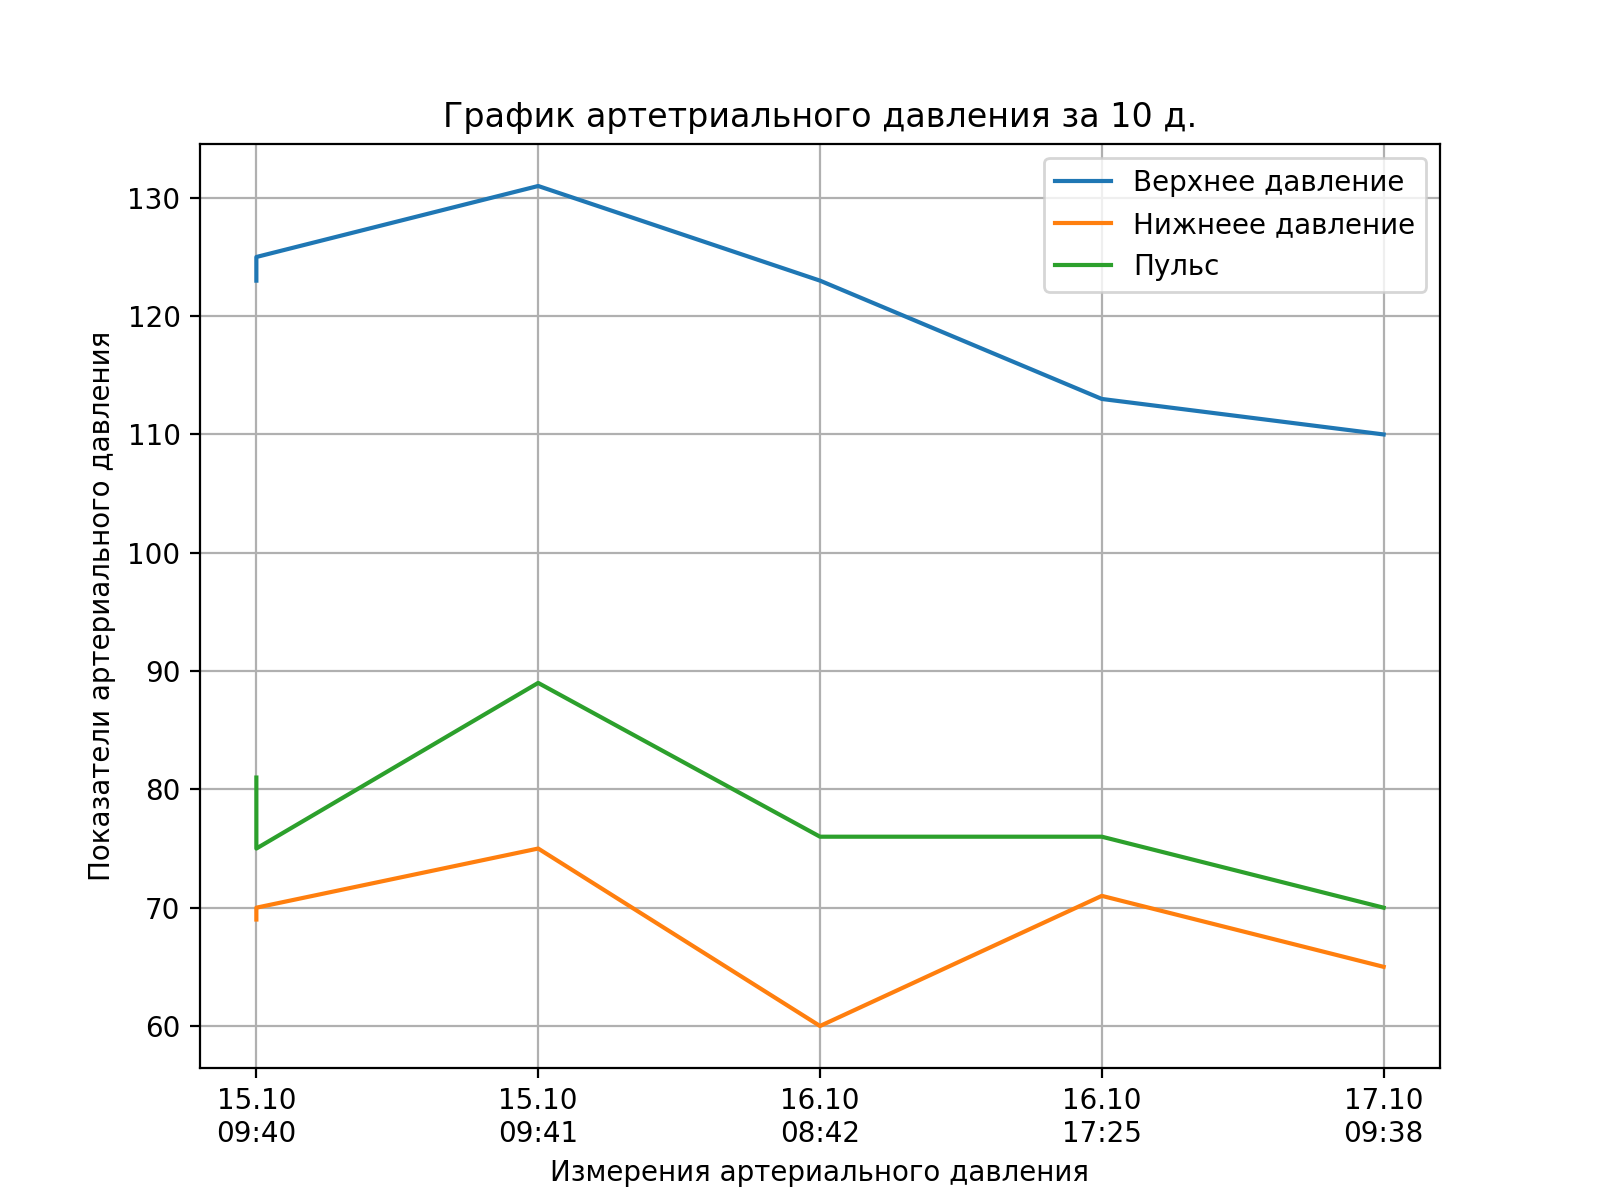
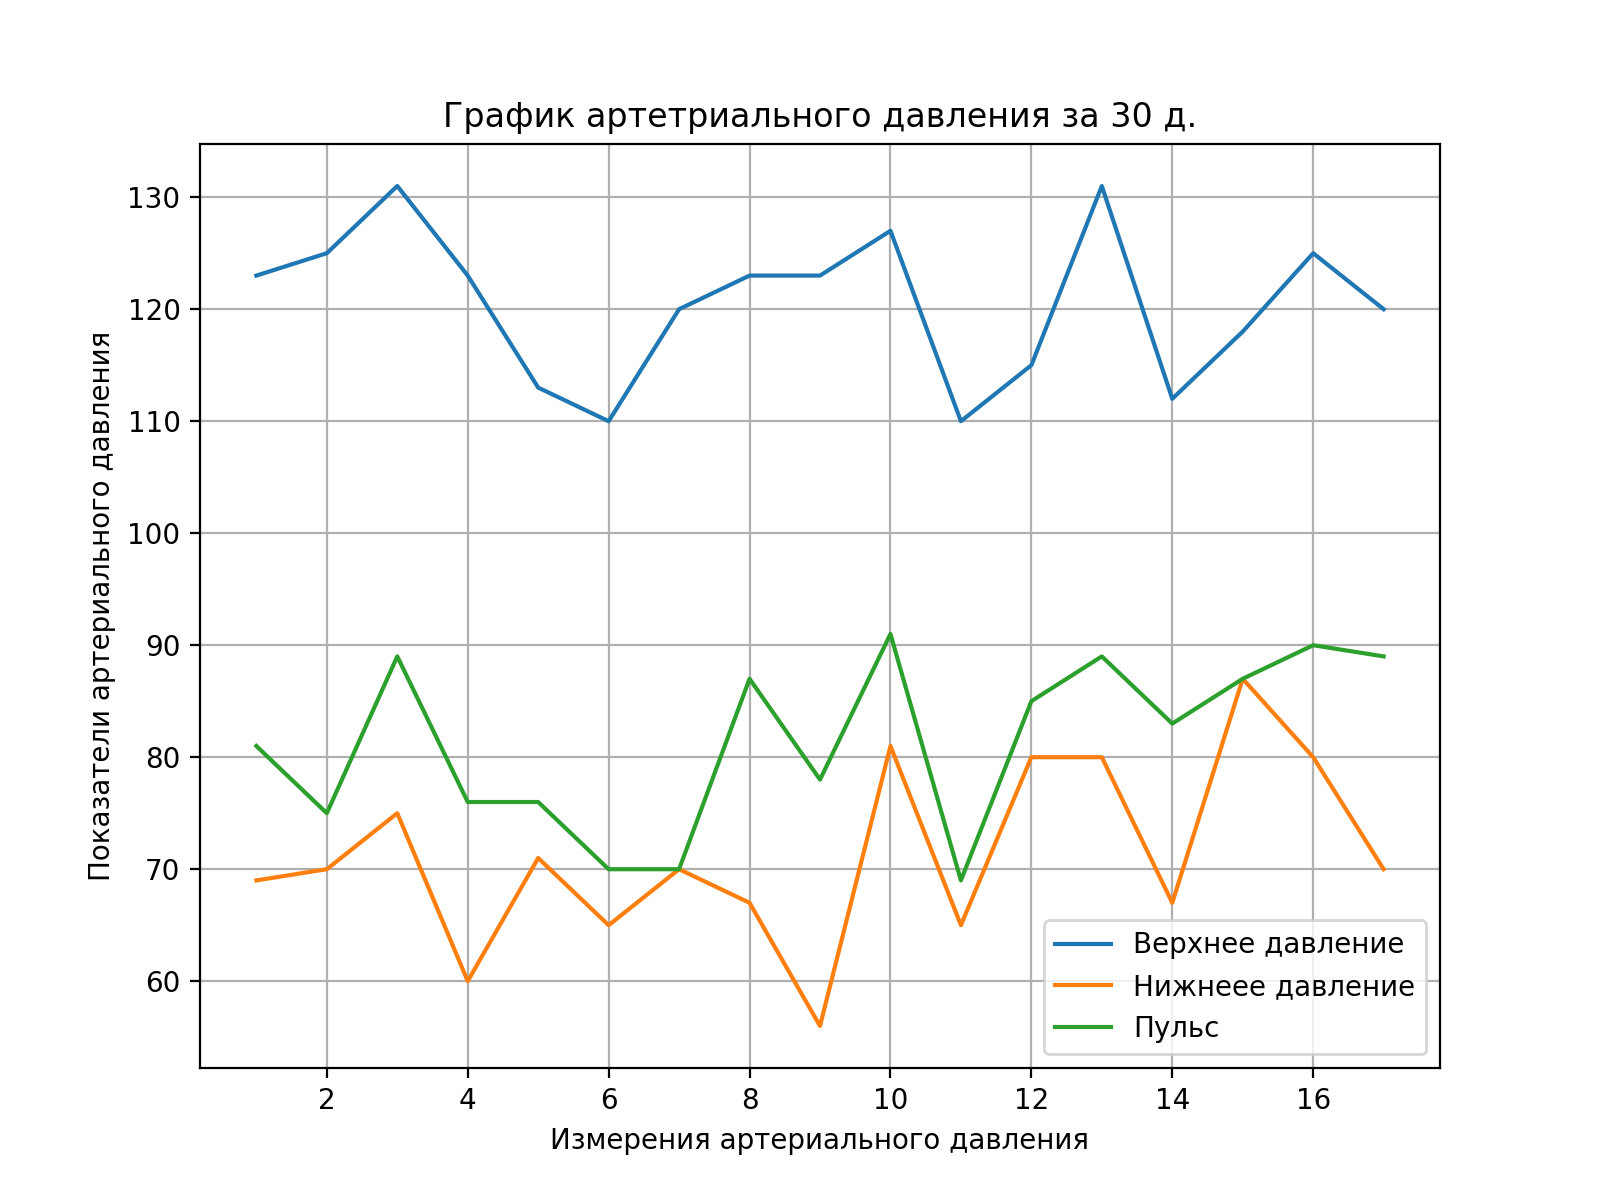
grpaph fixes

diff --git a/handlers/user_handlers.py b/handlers/user_handlers.py
@@ -14,6 +14,7 @@ from aiogram.fsm.storage.memory import MemoryStorage
 
 from keyboards.main_menu import get_main_menu, get_location_menu
 from keyboards.graphic_menu import get_graphic_menu, PeriodCallback
+from keyboards.callback_menu import get_yes_no_menu, YesNoCallback
 from config_data.config import Config, load_config
 from database.orm import add_user, add_blood, get_user_id, get_bloods, add_location, get_user_data
 from utils.tools import (create_blood_list, create_graph, get_weather_data, get_pretty_weather, get_timezone, get_kp_data,
@@ -26,6 +27,7 @@ storage = MemoryStorage()
 
 class FSMBloodState(StatesGroup):
     blood_string = State()
+    blood_string_confirmed = State()
 
 class FSMGraphState(StatesGroup):
     period = State()
@@ -83,11 +85,34 @@ async def process_blood_command(message: Message, state: FSMContext):
 
 
 @router.message(F.text,  StateFilter(FSMBloodState.blood_string))
-async def process_text_command(message: Message, state: FSMContext):
-    await state.update_data(blood_string=message.text)
-    tg_id = message.from_user.id
-    blood_text = message.text # 120/70/72
+async def process_blood_confirm_command(message: Message, state: FSMContext):
+    blood_text = message.text
     if check_pressure_and_pulse(blood_text):
+        values = blood_text.split('/')
+        systolic_bp, diastolic_bp, pulse_rate = map(int, values)
+        await message.answer(text=f'Вы ввели:\nДавление {systolic_bp} на {diastolic_bp}, пульс {pulse_rate}\nДобавить?',
+                          reply_markup=get_yes_no_menu()
+        )
+        await state.update_data(blood_string=message.text)
+        await state.set_state(FSMBloodState.blood_string_confirmed)
+    else:
+        await message.answer(
+                text='Неверный формат строки  или неверные показатели АД и пульса. Введите в формате 120/70/75', 
+                reply_markup=get_main_menu()
+            )
+
+
+@router.callback_query(YesNoCallback.filter(F.name == 'answer'), StateFilter(FSMBloodState.blood_string_confirmed))
+async def process_add_confirmed_blood(callback: CallbackQuery, callback_data: PeriodCallback, state: FSMContext):
+    tg_id = callback.from_user.id
+    blood_data = await state.get_data()
+    blood_text = blood_data['blood_string']
+
+    print(callback_data)
+    print(callback_data.value)
+    print(blood_text)
+    
+    if callback_data.value == True:
         try:
             user_id, lat, lon, timezone  = get_user_data(tg_id)
             weather_data = get_weather_data(lat, lon)
@@ -96,21 +121,23 @@ async def process_text_command(message: Message, state: FSMContext):
             low = blood_text.split('/')[1]
             pulse = blood_text.split('/')[-1]
             add_blood(hi, low, pulse, weather_data, kp_data, user_id)
-            await message.answer(
+            await callback.message.answer(
                 text='Показания добавлены', 
                 reply_markup=get_main_menu()
             )
             await state.clear()
         except:
-            await message.answer(
+            await callback.message.answer(
                 text='Ошибка при добавлении данных, обратитесь к разработчику', 
                 reply_markup=get_main_menu()
             )
     else:
-        await message.answer(
-                text='Неверный формат строки  или неверные показатели АД и пульса. Введите в формате 120/70/75', 
-                reply_markup=get_main_menu()
-            )
+        await callback.message.answer(
+            text=f'Введите показатели АД и пульса в формате 120/70/75', 
+            reply_markup=get_main_menu()
+        )
+        await state.set_state(FSMBloodState.blood_string)
+    
 
 
 @router.message(F.text == '📈 График', StateFilter(default_state))
@@ -127,20 +154,27 @@ async def process_button_period_click(callback: CallbackQuery, callback_data: Pe
     tg_id = callback.from_user.id
     user_id = get_user_id(tg_id)
     bloods_data = get_bloods(user_id, days)
-    blood_grpaph_filename, pressure_graph_filename, kp_graph_filename = create_graph(bloods_data, days)
+    blood_grpaph_filename, pressure_graph_filename, kp_graph_filename, table_filename = create_graph(bloods_data, days)
     blood_file = FSInputFile(path=blood_grpaph_filename)
     pressure_file = FSInputFile(path=pressure_graph_filename)
     kp_file = FSInputFile(path=kp_graph_filename)
     try:
         await callback.message.answer_photo(
             photo=blood_file,
-            reply_markup=get_main_menu())
-        await callback.message.answer_photo(
-            photo=pressure_file,
-            reply_markup=get_main_menu())
-        await callback.message.answer_photo(
-            photo=kp_file,
-            reply_markup=get_main_menu())
+            reply_markup=get_main_menu()
+        )
+        if table_filename:
+            table_file = FSInputFile(path=table_filename)
+            await callback.message.answer_photo(
+                photo=table_file,
+                reply_markup=get_main_menu()
+            )
+        # await callback.message.answer_photo(
+        #     photo=pressure_file,
+        #     reply_markup=get_main_menu())
+        # await callback.message.answer_photo(
+        #     photo=kp_file,
+        #     reply_markup=get_main_menu())
     except Exception as e:
         print(f'Error with sending photo: {e}')
 

diff --git a/utils/tools.py b/utils/tools.py
@@ -4,6 +4,7 @@ from pprint import pprint
 import os
 
 import matplotlib.pyplot as plt
+from matplotlib.table import Table
 
 from config_data.config import Config, load_config
 
@@ -12,6 +13,7 @@ ow_token = config.open_weather.weather_token
 utc_token = config.open_weather.utc_token
 
 PRESSURE_FACTOR = 0.007501
+MAX_DATES_COUNT = 14
 code_timezone_file = 'code_timezone.json'
 
 
@@ -101,21 +103,67 @@ def plot_blood_graph(hi: list, low: list, pulse: list, dates: list, days: int):
         return graph_blood_filename
 
 
+def save_dictionary_as_png(data_dict):
+    filename='./files/table.png'
+    fig, ax = plt.subplots()
+    ax.axis('off')
+
+    headers = ["Номер", "Дата"]
+    table_data = []
+
+    for number, date in sorted(data_dict.items()):
+        table_data.append([number, date])
+
+    table_data.insert(0, headers)
+
+    tb = Table(ax, bbox=[0, 0, 1, 1])
+    nrows, ncols = len(table_data), len(table_data[0])
+    width, height = 1 / ncols, 1 / nrows
+
+    colors = [['#F0FFFF'] * ncols] + [['#DCDCDC']*ncols]*nrows
+    colors.pop(-1) 
+
+    for i in range(nrows):
+        for j in range(ncols):
+            tb.add_cell(i, j, width, height, text=table_data[i][j], loc='center', facecolor=colors[i][j])
+
+    tb.auto_set_font_size(False)
+    tb.set_fontsize(12)
+    tb.scale(1, 1.5)
+
+    ax.add_table(tb)
+
+    plt.savefig(filename, dpi=300, bbox_inches='tight')
+    plt.close(fig)
+    return filename
+
+
 
 def create_graph(blood_data, days):
+    table_filename = ''
     hi_blood = [blood.hi for blood in blood_data]
     low_blood = [blood.low for blood in blood_data]
     pulse = [blood.pulse for blood in blood_data]
     pressures_mm = [blood.pressure_mm for blood in blood_data]
     last_kp = [blood.last_kp_index for blood in blood_data]
-    dates = [date.register_date.strftime("%d.%m %H:%M") for date in blood_data]
-    dates = [date.split()[0] + '\n' + date.split()[-1] for date in dates]
+
+    date_numbers = [i for i in range(1, len(hi_blood)+1)]
+    dates_values = [date.register_date.strftime("%d.%m %H:%M") for date in blood_data]
+    dates_values_short = [date.split()[0] + '\n' + date.split()[-1] for date in dates_values]
+    dates_dict = dict(zip(date_numbers, dates_values))
+    
+
+    if len(hi_blood) > MAX_DATES_COUNT:
+        dates = date_numbers
+        table_filename = save_dictionary_as_png(dates_dict)
+    else:
+        dates = dates_values_short
 
     blood_graph_filename = plot_blood_graph(hi_blood, low_blood, pulse, dates, days)
     pressure_graph_filename = plot_pressure_graph(pressures_mm, dates, days)
     kp_graph_filename = plot_kp_graph(last_kp, dates, days)
-
-    return blood_graph_filename, pressure_graph_filename, kp_graph_filename
+    print(f'table_filename: {table_filename}')
+    return blood_graph_filename, pressure_graph_filename, kp_graph_filename, table_filename
 
 
 

diff --git a/keyboards/callback_menu.py b/keyboards/callback_menu.py
@@ -1,0 +1,25 @@
+from aiogram.types import InlineKeyboardButton, InlineKeyboardMarkup
+from aiogram.filters.callback_data import CallbackData
+
+
+class YesNoCallback(CallbackData, prefix="answer"):
+        name: str
+        value: bool
+
+
+
+def get_yes_no_menu():
+        yes_button = InlineKeyboardButton(
+                text="Да", callback_data=YesNoCallback(name="answer", value=True).pack()
+        )
+        no_button = InlineKeyboardButton(
+                text="Нет", callback_data=YesNoCallback(name="answer", value=False).pack()
+        )
+
+        yes_no_menu_keyboard = InlineKeyboardMarkup(
+                inline_keyboard=[
+                        [yes_button, no_button],
+                ]
+        )
+
+        return yes_no_menu_keyboard

diff --git a/keyboards/main_menu.py b/keyboards/main_menu.py
@@ -4,8 +4,8 @@ from aiogram.types import (KeyboardButton, Message, ReplyKeyboardMarkup,
 
 
 def get_main_menu():
-    button_1: KeyboardButton = KeyboardButton(text='❤ Добавить')
-    button_2: KeyboardButton = KeyboardButton(text='📈 График')
+    button_1: KeyboardButton = KeyboardButton(text='📈 График')
+    button_2: KeyboardButton = KeyboardButton(text='❤ Добавить')
     button_3: KeyboardButton = KeyboardButton(text='🌤 Погода')
     button_4: KeyboardButton = KeyboardButton(text='🧲 Магнитные бури')
 
